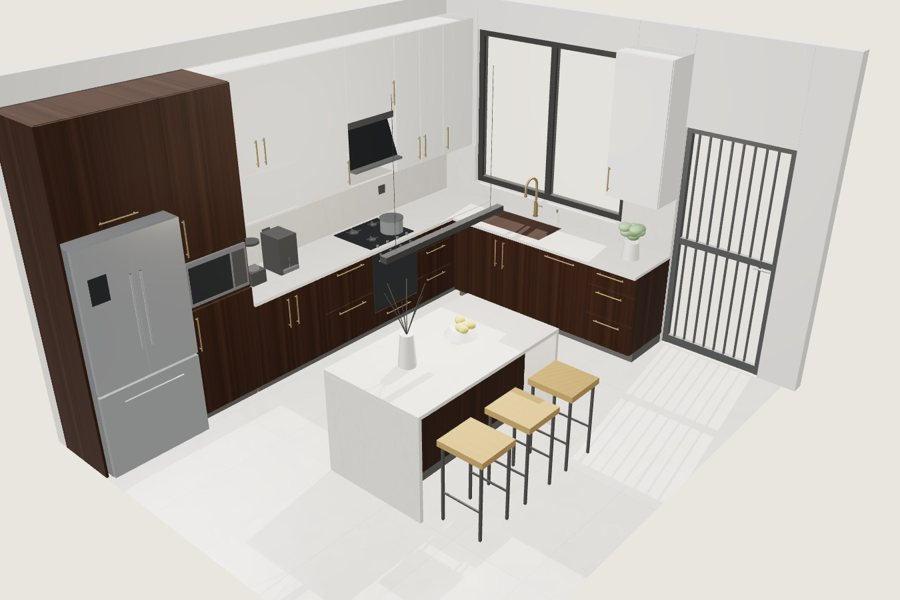
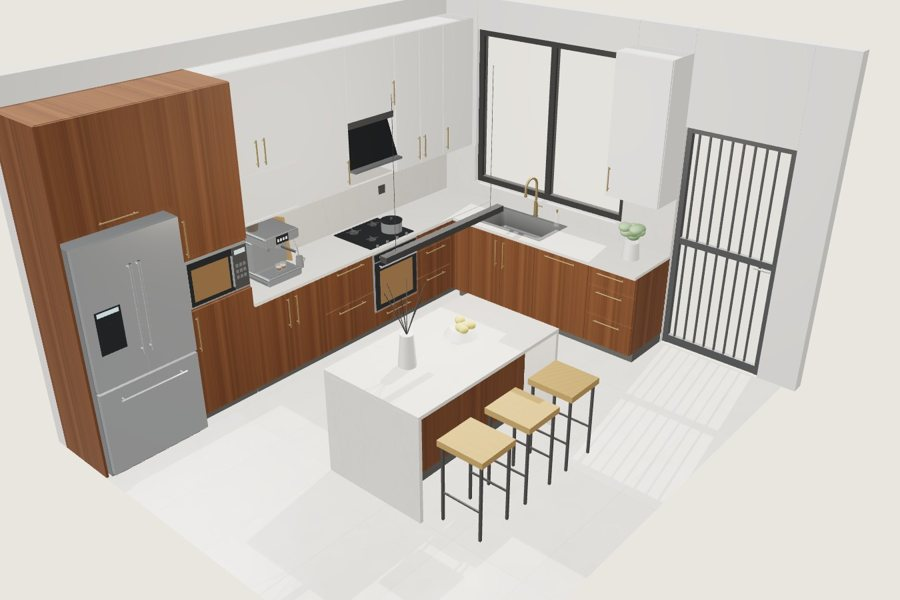
Awes: lighter warm brown, recessed rounded sinks, livelier appliances, style-matched espresso machines
- One lighter warm walnut for every colour scheme (brown & green now uses it too)
- Sinks are open rounded bowls with a rim; farmhouse apron sink has a rounded basin
- Oven, microwave, fridge and hob get displays, glow, grates and style-matched cookware
- Blender removed; Modern gets a silver hopper espresso machine, Farmhouse a teal retro
  two-group machine, Mediterranean a blue majolica-pattern machine

Claude-Session: https://claude.ai/code/session_01Df1aZbcL3CFrpdhw9hWgdy

diff --git a/awes/index.html b/awes/index.html
@@ -171,18 +171,18 @@ const PALETTES={
   'white':{name:'White', lower:'white', upper:'white', tall:'white', island:'white'},
   'brown-white':{name:'Brown & white', lower:'walnut', upper:'white', tall:'walnut', island:'walnut'},
   'green-white':{name:'Green & white', lower:'green', upper:'white', tall:'white', island:'green'},
-  'brown-green':{name:'Brown & green', lower:'green', upper:'oak', tall:'oak', island:'oak'}
+  'brown-green':{name:'Brown & green', lower:'green', upper:'walnut', tall:'walnut', island:'walnut'}
 };
 const FIN={
   green:{modern:'#8b9a7f', med:'#7b8a5f', farm:'#86998a'},
   white:{modern:'#ecebe6', med:'#efe6d4', farm:'#f2eee5'},
-  walnut:{modern:['#4a3122','#2f1d10','#6b4834'], med:['#7a5233','#56371f','#9b6d46'], farm:['#86603f','#5f4127','#a87e56']},
+  walnut:{modern:['#8b5d3c','#664129','#ad7d54'], med:['#8b5d3c','#664129','#ad7d54'], farm:['#8b5d3c','#664129','#ad7d54']},
   oak:{modern:['#c09b6b','#9a7749','#dcbb8b'], med:['#b98f5e','#93703f','#d4ad7c'], farm:['#c29c69','#9b7848','#dcbb89']}
 };
 const FIN_NAME={
   green:{modern:'sage green matte', med:'olive green', farm:'sage green'},
   white:{modern:'warm white', med:'chalk white', farm:'cream white'},
-  walnut:{modern:'dark walnut', med:'chestnut wood', farm:'mid-brown oak'},
+  walnut:{modern:'warm walnut', med:'warm walnut', farm:'warm walnut'},
   oak:{modern:'light oak', med:'light oak', farm:'light oak'}
 };
 const state={style:'modern', palette:'green-white', island:'stools'};
@@ -340,6 +340,23 @@ function skyTex(){
   });
 }
 
+function majolicaTex(){
+  return ctex('majolica',1024,[.22,.22],(g,s)=>{
+    const W1='#f7f8fb', b1='#1d4c9c', b2='#4f7fcf';
+    g.fillStyle=W1; g.fillRect(0,0,s,s);
+    for(const y0 of [0,s-72]){g.fillStyle=b1; g.fillRect(0,y0+10,s,8); g.fillRect(0,y0+54,s,8);
+      for(let x=0;x<s;x+=42){g.fillStyle=b2; g.beginPath(); g.arc(x+21,y0+36,12,0,7); g.fill(); g.fillStyle=W1; g.beginPath(); g.arc(x+21,y0+36,5,0,7); g.fill();}}
+    const cx=s/2, cy=s/2;
+    for(const [r,c] of [[300,b1],[284,W1],[252,b2],[232,W1]]){g.fillStyle=c; g.beginPath(); g.arc(cx,cy,r,0,7); g.fill();}
+    for(let k=0;k<16;k++){const a=k*Math.PI/8; g.fillStyle=k%2?b1:b2; g.beginPath(); g.ellipse(cx+Math.cos(a)*150,cy+Math.sin(a)*150,72,26,a,0,7); g.fill();}
+    for(const [r,c] of [[78,b1],[48,W1],[26,b2]]){g.fillStyle=c; g.beginPath(); g.arc(cx,cy,r,0,7); g.fill();}
+    g.strokeStyle=b1; g.lineWidth=10; g.lineCap='round';
+    for(const [qx,qy] of [[0,0],[1,0],[0,1],[1,1]]){const ox=qx?s-140:140, oy=qy?s-170:170;
+      for(let k=0;k<3;k++){g.beginPath(); g.arc(ox,oy,26+k*26,k*.8,k*.8+3.8); g.stroke();}
+      g.fillStyle=b2; for(let k=0;k<6;k++){g.beginPath(); g.ellipse(ox+(rnd()-.5)*170,oy+(rnd()-.5)*170,18,8,rnd()*3,0,7); g.fill();}}
+  });
+}
+
 /* ---------------------------------------------------------------- materials */
 let MATS=[];
 function std(o){const m=new THREE.MeshStandardMaterial(Object.assign({envMapIntensity:.45},o)); MATS.push(m); return m;}
@@ -387,7 +404,17 @@ function makeMats(){
     rattan:std({map:rattanTex(),roughness:.8}), linen:std({color:'#e8e0d0',roughness:.9}),
     jarGlass:std({color:'#e9eef0',roughness:.05,transparent:true,opacity:.35,depthWrite:false}),
     jarFill:std({color:'#9b6a3d',roughness:.8}), plate:std({color:'#f3f1ec',roughness:.3}),
-    socket:std({color:state.style==='modern'?'#1f1f1f':'#f4f2ee',roughness:.4})
+    socket:std({color:state.style==='modern'?'#1f1f1f':'#f4f2ee',roughness:.4}),
+    fsteel:std({color:'#cdd1d4',metalness:.85,roughness:.3}),
+    sinkSteel:std({color:'#d2d7db',metalness:.7,roughness:.34,side:THREE.DoubleSide,vertexColors:true,envMapIntensity:.3}),
+    sinkCeramic:std({color:'#f3f1ec',roughness:.2,side:THREE.DoubleSide,vertexColors:true}),
+    display:basic({color:'#a6e8ff'}), scrA:basic({color:'#f2c36b'}), scrB:basic({color:'#ffffff'}), scrC:basic({color:'#8fd1ff'}),
+    ovenGlow:std({color:'#140b05',emissive:'#ff8a36',emissiveIntensity:.22,roughness:.1}),
+    teal:std({color:'#86cdc4',roughness:.2,metalness:.05}), cream:std({color:'#efe8d6',roughness:.35}),
+    majolica:std({map:(()=>{const t=majolicaTex(); t.offset.set(.5,.5); return t;})(),roughness:.18}), greyHandle:std({color:'#5d6063',roughness:.5}),
+    beans:std({color:'#4a2a17',roughness:.6}), espresso:std({color:'#2e1a0e',roughness:.15}), crema:std({color:'#bf8752',roughness:.4}),
+    copper:std({color:'#b9724a',metalness:.9,roughness:.32}), enamel:std({color:state.palette.includes('green')?'#86998a':'#e9e3d6',roughness:.25}),
+    board:std({map:woodTex('oak',state.style),roughness:.6}), tintHop:std({color:'#3b3f42',roughness:.05,metalness:.2,transparent:true,opacity:.6})
   };
   M.plinth=M.plinth||null;
 }
@@ -416,6 +443,35 @@ function plane(p,w,h,mat,x,y,z,rx=0,ry=0){
 function tube(p,pts,r,mat,seg=48){
   const m=new THREE.Mesh(new THREE.TubeGeometry(new THREE.CatmullRomCurve3(pts.map(q=>new THREE.Vector3(...q))),seg,r,12,false),mat);
   m.castShadow=true; p.add(m); return m;
+}
+function rrShape(w,h,r,asPath){
+  const s=asPath?new THREE.Path():new THREE.Shape(), x=-w/2, y=-h/2; r=Math.max(.0008,Math.min(r,w/2-1e-4,h/2-1e-4));
+  s.moveTo(x+r,y); s.lineTo(x+w-r,y); s.absarc(x+w-r,y+r,r,-Math.PI/2,0,false); s.lineTo(x+w,y+h-r); s.absarc(x+w-r,y+h-r,r,0,Math.PI/2,false);
+  s.lineTo(x+r,y+h); s.absarc(x+r,y+h-r,r,Math.PI/2,Math.PI,false); s.lineTo(x,y+r); s.absarc(x+r,y+r,r,Math.PI,1.5*Math.PI,false); return s;
+}
+// rounded box centred at x,y,z: rc = corner radius seen from the front, rb = round-over on the front and back edges
+function rbox(p,w,h,d,rc,rb,mat,x,y,z){
+  const g=new THREE.ExtrudeGeometry(rrShape(w-2*rb,h-2*rb,Math.max(.0015,rc-rb)),{depth:Math.max(d-2*rb,.001),bevelEnabled:rb>0,bevelThickness:rb,bevelSize:rb,bevelSegments:3,curveSegments:8});
+  g.translate(0,0,-(d-2*rb)/2);
+  const m=new THREE.Mesh(g,mat); m.position.set(x,y,z); m.castShadow=true; m.receiveShadow=true; p.add(m); return m;
+}
+// flat ring (rounded outer and inner outlines) lying on y, centred at cx,cz
+function ringPlate(p,cx,y,cz,ow,od,orad,iw,id,irad,t,mat){
+  const sh=rrShape(ow,od,orad); sh.holes.push(rrShape(iw,id,irad,true));
+  const g=new THREE.ExtrudeGeometry(sh,{depth:t,bevelEnabled:false,curveSegments:10}); g.rotateX(-Math.PI/2);
+  const m=new THREE.Mesh(g,mat); m.position.set(cx,y,cz); m.castShadow=true; m.receiveShadow=true; p.add(m); return m;
+}
+// open-top bowl: rounded-rectangle walls that curve into a flat floor
+function bowl(p,cx,cz,ytop,w,d,depth,r,mat,rb=.035){
+  const rr=(cw,cd,cr,n=8)=>{const out=[]; for(const [qx,qz,a0] of [[1,1,0],[-1,1,90],[-1,-1,180],[1,-1,270]]){const ox=cx+qx*(cw/2-cr), oz=cz+qz*(cd/2-cr);
+    for(let i=0;i<n;i++){const a=(a0+90*i/(n-1))*Math.PI/180; out.push([ox+cr*Math.cos(a),oz+cr*Math.sin(a)]);}} return out;};
+  const prof=[[0,0],[0,depth-rb]]; for(let i=1;i<=6;i++){const a=Math.PI/2*i/6; prof.push([rb-rb*Math.cos(a),depth-rb+rb*Math.sin(a)]);}
+  const pos=[], idx=[], col=[]; let n=0;
+  prof.forEach(([ins,dn])=>{const ring=rr(w-2*ins,d-2*ins,Math.max(r-ins,.004)); n=ring.length; const sh=1-.5*Math.pow(dn/depth,.7); ring.forEach(([x,z])=>{pos.push(x,ytop-dn,z); col.push(sh,sh,sh);});});
+  for(let k=0;k<prof.length-1;k++)for(let i=0;i<n;i++){const j=(i+1)%n; idx.push(k*n+i,k*n+j,(k+1)*n+j, k*n+i,(k+1)*n+j,(k+1)*n+i);}
+  const c=pos.length/3; pos.push(cx,ytop-depth,cz); col.push(.48,.48,.48); const L=(prof.length-1)*n; for(let i=0;i<n;i++)idx.push(L+i,L+(i+1)%n,c);
+  const g=new THREE.BufferGeometry(); g.setAttribute('position',new THREE.Float32BufferAttribute(pos,3)); g.setAttribute('color',new THREE.Float32BufferAttribute(col,3)); g.setIndex(idx); g.computeVertexNormals();
+  const m=new THREE.Mesh(g,mat); m.receiveShadow=true; m.castShadow=true; p.add(m); return m;
 }
 // a run of units: local x along the run, back against the wall at z=0, fronts facing +z
 function runGroup(parent,x,z,rotY){const g=new THREE.Group(); g.position.set(x,0,z); g.rotation.y=rotY; parent.add(g); return g;}
@@ -447,10 +503,9 @@ function pull(p,cx,cy,z,orient,len){
 /* ---------------------------------------------------------------- base & upper units */
 function baseRun(p,x0,secs,fin,o={}){
   const cd=o.cd??CD, topY=WT-STY.topT, len=secs.reduce((a,s)=>a+s.w,0), fm=finMat(fin);
-  B(p,x0,PL,0,len,topY-PL,cd-.002,fm);
   B(p,x0+.005,0,0,len-.01,PL,cd-.06,M.plinth||fm);
   let x=x0;
-  for(const s of secs){baseSection(p,x,s,cd,topY,fm); x+=s.w;}
+  for(const s of secs){B(p,x,PL,0,s.w,(s.t==='sink'?.64:topY)-PL,cd-.002,fm); baseSection(p,x,s,cd,topY,fm); x+=s.w;}
   return len;
 }
 function baseSection(p,x,s,cd,topY,fm){
@@ -464,11 +519,14 @@ function baseSection(p,x,s,cd,topY,fm){
   }
   if(s.t==='oven'){
     front(p,x,y0,w,.15,z,fm); dpull(x,y0,w,.15);
-    const oy=y0+.16, oh=y1-oy-.01;
-    B(p,x+.008,oy,z-.01,w-.016,oh,.03,s.dark?M.blackGlass:M.steel);
-    B(p,x+.06,oy+.06,z+.021,w-.12,oh-.2,.004,M.blackGlass);
-    C(p,.008,w-.12,x+w/2,oy+oh-.07,z+.05,M.chrome,'x');
-    for(let i=0;i<4;i++)C(p,.014,.02,x+.1+i*(w-.2)/3,oy+oh-.025,z+.03,M.black,'z');
+    const oy=y0+.16, oh=y1-oy-.01, ox=x+.008, ow=w-.016, cx=x+w/2;
+    B(p,ox,oy,z-.01,ow,oh,.03,M.fsteel);
+    B(p,ox+.012,oy+oh-.085,z+.02,ow-.024,.072,.004,M.blackGlass);
+    B(p,cx-.045,oy+oh-.063,z+.024,.09,.03,.001,M.display);
+    for(const dx of [-.2,-.12,.12,.2]){C(p,.017,.026,cx+dx,oy+oh-.049,z+.036,M.chrome,'z'); B(p,cx+dx-.002,oy+oh-.04,z+.049,.004,.013,.002,M.black);}
+    B(p,ox+.012,oy+.012,z+.02,ow-.024,oh-.11,.006,M.blackGlass);
+    B(p,ox+.07,oy+.06,z+.026,ow-.14,oh-.25,.002,M.ovenGlow,false);
+    C(p,.008,ow-.1,cx,oy+oh-.135,z+.065,M.chrome,'x'); for(const dx of [-(ow/2-.07),ow/2-.07])C(p,.006,.04,cx+dx,oy+oh-.135,z+.045,M.chrome,'z');
     return;
   }
   if(s.t==='dw'){front(p,x,y0,w,hgt,z,fm); dpull(x,y0,w,hgt); return;}
@@ -610,12 +668,14 @@ function buildKitchen(){
   const hx=1.66;
   B(gw,hx-.29,WT,.06,.58,.008,.5,M.blackGlass);
   for(const [dx,dz,r] of [[-.13,.17,.045],[.13,.17,.035],[-.13,.42,.035],[.13,.42,.05]]){
-    C(gw,r,.012,hx+dx,WT+.014,dz,M.black); C(gw,r*.55,.008,hx+dx,WT+.022,dz,M.steelDark);
+    C(gw,r,.012,hx+dx,WT+.014,dz,M.black); C(gw,r*.55,.01,hx+dx,WT+.024,dz,state.style==='modern'?M.black:M.hw);
     for(let k=0;k<4;k++){const a=k*Math.PI/2+.4; const b=B(gw,hx+dx-.005,WT+.02,dz-.002,r*1.6,.008,.008,M.black); b.position.set(hx+dx+Math.cos(a)*r*.9,WT+.026,dz+Math.sin(a)*r*.9); b.rotation.y=-a;}
   }
   for(let k=0;k<4;k++)C(gw,.014,.02,hx-.2+k*.13,WT+.012,.56,M.steelDark);
   // a pot on the hob
-  C(gw,.11,.13,hx+.13,WT+.085,.42,M.steel,null,28); C(gw,.115,.012,hx+.13,WT+.155,.42,M.steelDark,null,28);
+  if(state.style==='farm'){rbox(gw,.24,.13,.24,.1,.02,M.enamel,hx+.13,WT+.1,.42); C(gw,.02,.025,hx+.13,WT+.18,.42,M.hw); for(const dx of [-.13,.13])B(gw,hx+.13+dx-.015,WT+.12,.41,.03,.02,.02,M.enamel);}
+  else if(state.style==='med'){C(gw,.11,.12,hx+.13,WT+.09,.42,M.copper,null,32); C(gw,.115,.01,hx+.13,WT+.155,.42,M.copper,null,32); tube(gw,[[hx+.24,WT+.13,.42],[hx+.32,WT+.135,.42],[hx+.38,WT+.14,.42]],.008,M.copper,8);}
+  else {C(gw,.1,.1,hx+.13,WT+.075,.42,M.steel,null,32); C(gw,.105,.01,hx+.13,WT+.13,.42,M.blackGlass,null,32); C(gw,.012,.02,hx+.13,WT+.145,.42,M.black);}
   // hood & uppers
   hood(gw,hx);
   const st=state.style;
@@ -640,7 +700,10 @@ function buildKitchen(){
   const tallTop=upTop, tf=finMat(PAL.tall);
   B(gw,-.6,PL,0,.6,tallTop-PL,CD-.002,tf); B(gw,-.595,0,0,.59,PL,CD-.06,M.plinth||tf);
   front(gw,-.6,PL,.6,.95,CD,tf); pull(gw,-.6+.045,STY.pull==='bar'?PL+.95-.2:PL+.95-.08,CD+FT,'v',.3);
-  B(gw,-.58,1.08,CD-.01,.56,.37,.03,M.steelDark); B(gw,-.56,1.11,CD+.02,.38,.3,.004,M.blackGlass); B(gw,-.16,1.11,CD+.02,.12,.3,.004,M.black);
+  B(gw,-.585,1.07,CD-.01,.57,.39,.03,M.fsteel); B(gw,-.57,1.085,CD+.02,.41,.36,.005,M.blackGlass); B(gw,-.54,1.12,CD+.025,.34,.27,.002,M.ovenGlow,false);
+  B(gw,-.155,1.085,CD+.02,.135,.36,.005,M.black); B(gw,-.14,1.38,CD+.026,.105,.04,.001,M.display,false);
+  for(let r=0;r<3;r++)for(let c=0;c<3;c++)B(gw,-.138+c*.035,1.17+r*.05,CD+.026,.025,.03,.002,M.steelDark);
+  B(gw,-.18,1.12,CD+.026,.012,.27,.012,M.chrome);
   front(gw,-.6,1.48,.6,tallTop-1.48,CD,tf); pull(gw,-.6+.045,1.48+.18,CD+FT,'v',.3);
   // fridge housing
   B(gw,-1.5,0,0,.02,tallTop,CD+FT,tf); B(gw,-1.5,1.92,0,.9,tallTop-1.92,CD-.002,tf);
@@ -678,6 +741,7 @@ function hood(p,hx){
     B(p,hx-.3,1.98,0,.6,.07,.32,M.black);
     const g=B(p,hx-.3,1.62,0,.6,.42,.012,M.blackGlass); g.rotation.x=-.35; g.position.z=.28; g.position.y=1.82;
     B(p,hx-.3,1.6,.15,.6,.02,.27,M.steelDark);
+    for(const dx of [-.15,.15])C(p,.022,.003,hx+dx,1.598,.3,M.bulb).castShadow=false;
     return;
   }
   const mat=k==='plaster'?std({map:wallTex(),color:'#fbf6ee',roughness:.95}):finMat('white');
@@ -686,30 +750,36 @@ function hood(p,hx){
   B(p,hx-.2,2.29,0,.4,(STY.upperTop>2.5?H:H)-2.29-(STY.ceiling==='beams'?.0:0),.22,mat);
   B(p,hx-.48,1.62,0,.96,.1,.31,k==='plaster'?M.darkWood:M.shelfWood);
   B(p,hx-.25,1.6,.05,.5,.02,.24,M.steelDark);
+  for(const dx of [-.15,.15])C(p,.022,.003,hx+dx,1.598,.18,M.bulb).castShadow=false;
 }
 function fridge(p,x0){
-  const w=.84, h=1.86, d=.68;
-  B(p,x0,.02,.0,w,h,d-.04,M.steelDark);
-  B(p,x0,.75,d-.04,w/2-.003,h-.73,.04,M.steel); B(p,x0+w/2+.003,.75,d-.04,w/2-.003,h-.73,.04,M.steel);
-  B(p,x0,.03,d-.04,w,.7,.04,M.steel);
-  C(p,.009,.6,x0+w/2-.04,1.3,d+.03,M.chrome); C(p,.009,.6,x0+w/2+.04,1.3,d+.03,M.chrome);
-  C(p,.009,.5,x0+w/2,.64,d+.03,M.chrome,'x');
-  B(p,x0+.08,1.45,d,.14,.2,.004,M.blackGlass);
+  const w=.84, h=1.86, d=.68, fz=d-.05;
+  B(p,x0,.02,0,w,h,fz,M.steelDark);
+  B(p,x0+.004,.77,fz,w/2-.006,h-.75,.045,M.fsteel); B(p,x0+w/2+.002,.77,fz,w/2-.006,h-.75,.045,M.fsteel);
+  B(p,x0+.004,.05,fz,w-.008,.7,.045,M.fsteel);
+  for(const hx of [x0+w/2-.035,x0+w/2+.035]){C(p,.011,.72,hx,1.32,d+.04,M.chrome); for(const hy of [.99,1.65])C(p,.007,.045,hx,hy,d+.018,M.chrome,'z');}
+  C(p,.011,.56,x0+w/2,.66,d+.04,M.chrome,'x'); for(const dx of [-.25,.25])C(p,.007,.045,x0+w/2+dx,.66,d+.018,M.chrome,'z');
+  B(p,x0+.08,1.05,d-.004,.2,.34,.004,M.blackGlass);          // water and ice bay
+  B(p,x0+.1,1.07,d-.03,.16,.24,.026,M.black);
+  C(p,.012,.04,x0+.18,1.27,d-.015,M.chrome);
+  B(p,x0+.095,1.345,d,.17,.035,.001,M.display);
+  B(p,x0+.06,.02,fz-.01,w-.12,.025,.02,M.black);
 }
 function sink(p,sc,ox0,ox1,oz0,oz1,topY){
-  const st=STY.sink;
+  const st=STY.sink, cz=(oz0+oz1)/2;
   if(st==='apron'){
-    const w=ox1-ox0, sy=WT-.24;
-    B(p,ox0,sy,oz0,w,.02,oz1-oz0,M.ceramic);
-    B(p,ox0,sy,oz0,.03,WT-sy,oz1-oz0,M.ceramic); B(p,ox1-.03,sy,oz0,.03,WT-sy,oz1-oz0,M.ceramic);
-    B(p,ox0,sy,oz0,w,WT-sy,.03,M.ceramic); B(p,ox0,sy,oz1-.04,w,WT-sy,.04,M.ceramic);
-    C(p,.025,.004,sc,sy+.022,(oz0+oz1)/2,M.steelDark);
+    const w=ox1-ox0, sy=WT-.25, bd=oz1-oz0;
+    B(p,ox0,sy,oz1-.045,w,WT-sy,.045,M.ceramic);                       // apron front
+    B(p,ox0,sy,oz0,.03,WT-sy,bd-.04,M.ceramic); B(p,ox1-.03,sy,oz0,.03,WT-sy,bd-.04,M.ceramic); B(p,ox0,sy,oz0,w,WT-sy,.03,M.ceramic);
+    const iw=w-.07, id=bd-.085, icz=oz0+.035+id/2;
+    ringPlate(p,sc,WT-.004,icz,w,bd-.01,.01,iw,id,.045,.004,M.ceramic);
+    bowl(p,sc,icz,WT-.002,iw,id,.21,.045,M.sinkCeramic);
+    C(p,.03,.004,sc,WT-.209,icz,M.steelDark,null,24); C(p,.02,.005,sc,WT-.208,icz,M.black,null,24);
   } else {
-    const sy=topY-.19;
-    B(p,ox0,sy,oz0,ox1-ox0,.004,oz1-oz0,M.steel);
-    B(p,ox0,sy,oz0,.003,topY-sy,oz1-oz0,M.steel); B(p,ox1-.003,sy,oz0,.003,topY-sy,oz1-oz0,M.steel);
-    B(p,ox0,sy,oz0,ox1-ox0,topY-sy,.003,M.steel); B(p,ox0,sy,oz1-.003,ox1-ox0,topY-sy,.003,M.steel);
-    C(p,.025,.004,sc,sy+.006,(oz0+oz1)/2,M.steelDark);
+    const iw=ox1-ox0-.04, id=oz1-oz0-.04;
+    bowl(p,sc,cz,WT,iw,id,.2,.045,M.sinkSteel);
+    ringPlate(p,sc,WT,cz,ox1-ox0+.04,oz1-oz0+.04,.012,iw,id,.045,.004,M.steel);
+    C(p,.032,.004,sc,WT-.197,cz,M.chrome,null,24); C(p,.022,.005,sc,WT-.196,cz,M.steelDark,null,24);
   }
   // tap at the back
   const tm=STY.pull==='bar'?M.hw:M.hw, z=.035, y=WT;
@@ -727,13 +797,58 @@ function sink(p,sc,ox0,ox1,oz0,oz1,topY){
   }
 }
 function coffeeStation(p,y){
-  // coffee maker
-  B(p,.48,y,.12,.2,.34,.24,M.black); B(p,.5,y+.02,.36,.16,.03,.03,M.steelDark);
-  C(p,.06,.12,.58,y+.08,.3,M.jarGlass); C(p,.055,.05,.58,y+.03,.3,std({color:'#3a2416',roughness:.4}));
-  // blender
-  B(p,.18,y,.2,.15,.12,.15,M.black); C(p,.055,.24,.255,y+.24,.275,M.jarGlass,null,20,.07); C(p,.075,.02,.255,y+.37,.275,M.black);
-  // canisters
-  for(let i=0;i<3;i++)C(p,.045,.16-i*.025,.08+i*.0,y+.08-i*.012,.12+i*.11,state.style==='modern'?M.black:M.potWhite);
+  const cx=.44, zb=.09;
+  if(state.style==='modern')espressoModern(p,cx,y,zb); else if(state.style==='farm')espressoRetro(p,cx,y,zb); else espressoMajolica(p,cx,y,zb);
+  // coffee beans in a glass jar with a wooden lid
+  C(p,.05,.17,.1,y+.085,.17,M.jarGlass,null,28); C(p,.046,.13,.1,y+.066,.17,M.beans,null,24); C(p,.053,.022,.1,y+.181,.17,M.board,null,28);
+  if(state.style!=='med'){const b=B(p,.69,y,.02,.28,.4,.02,M.board); b.position.set(.71,y+.2,.06); b.rotation.x=-.18; b.rotation.y=Math.PI/2;}
+}
+function cups(p,xs,y,z,mat){for(const x of xs){C(p,.026,.055,x,y+.028,z,mat,null,20,.029); C(p,.023,.022,x,y+.017,z,M.espresso,null,20); C(p,.024,.004,x,y+.03,z,M.crema,null,20);}}
+function espressoModern(p,cx,y,zb){
+  const S=M.fsteel, w=.37, d=.38, zc=zb+d/2;
+  rbox(p,w,.07,d,.02,.01,S,cx,y+.035,zc);
+  B(p,cx-w/2+.04,y+.07,zb+d-.16,w-.08,.004,.14,M.steelDark);
+  rbox(p,w,.28,.19,.02,.01,S,cx,y+.07+.14,zb+.095);
+  rbox(p,w,.09,d,.02,.012,S,cx,y+.35+.045,zc);
+  B(p,cx-.065,y+.36,zb+d-.003,.13,.07,.004,M.blackGlass);
+  [M.scrA,M.scrB,M.scrC,M.scrB].forEach((m,i)=>B(p,cx-.055+i*.029,y+.38,zb+d+.002,.02,.026,.001,m,false));
+  C(p,.05,.14,cx-.11,y+.44+.07,zb+.13,M.tintHop,null,32,.075); C(p,.044,.09,cx-.11,y+.44+.045,zb+.13,M.beans,null,24,.06); C(p,.078,.02,cx-.11,y+.44+.15,zb+.13,M.black,null,32);
+  C(p,.04,.03,cx+.03,y+.335,zb+d-.09,M.chrome); C(p,.035,.035,cx+.03,y+.3,zb+d-.09,M.chrome);
+  tube(p,[[cx+.03,y+.3,zb+d-.06],[cx+.04,y+.295,zb+d+.03],[cx+.05,y+.29,zb+d+.11]],.011,M.black,16);
+  C(p,.013,.04,cx-.11,y+.32,zb+d-.06,M.steelDark);
+  tube(p,[[cx+.16,y+.34,zb+d-.06],[cx+.17,y+.26,zb+d-.03],[cx+.175,y+.17,zb+d-.02]],.006,M.chrome,16);
+  cups(p,[cx+.005,cx+.055],y+.074,zb+d-.09,M.jarGlass);
+  C(p,.036,.1,cx+.27,y+.05,zb+.25,M.fsteel,null,28,.031); tube(p,[[cx+.3,y+.08,zb+.25],[cx+.33,y+.06,zb+.25],[cx+.3,y+.03,zb+.25]],.006,M.fsteel,12);
+}
+function espressoRetro(p,cx,y,zb){
+  const Tq=M.teal, w=.5, d=.42;
+  rbox(p,w,.06,d,.02,.01,Tq,cx,y+.03,zb+d/2);
+  rbox(p,w,.36,.3,.035,.015,Tq,cx,y+.06+.18,zb+.15);
+  B(p,cx-w/2+.04,y+.08,zb+.3,w-.08,.16,.004,M.cream);
+  B(p,cx-w/2+.03,y+.06,zb+.3,w-.06,.012,d-.31,M.chrome);
+  C(p,.046,.012,cx,y+.34,zb+.306,M.chrome,'z',32); C(p,.037,.004,cx,y+.34,zb+.313,M.ceramic,'z',32); B(p,cx-.002,y+.34,zb+.316,.004,.03,.001,M.black,false);
+  for(const dx of [-.19,.19]){C(p,.024,.04,cx+dx,y+.34,zb+.32,M.black,'z',24); S(p,.02,cx+dx,y+.34,zb+.345,M.black);}
+  for(const dx of [-.12,-.09,.09,.12])B(p,cx+dx-.011,y+.325,zb+.3,.022,.03,.008,M.ceramic);
+  for(const dx of [-.11,.11]){C(p,.042,.04,cx+dx,y+.255,zb+.33,M.chrome); C(p,.034,.035,cx+dx,y+.22,zb+.33,M.chrome);
+    tube(p,[[cx+dx,y+.22,zb+.36],[cx+dx+.05,y+.215,zb+.43],[cx+dx+.1,y+.21,zb+.48]],.012,M.black,16);}
+  cups(p,[cx-.11,cx+.11],y+.072,zb+.34,M.ceramic);
+  tube(p,[[cx-.235,y+.31,zb+.31],[cx-.245,y+.22,zb+.35],[cx-.25,y+.13,zb+.36]],.006,M.chrome,16);
+  for(const [a,b] of [[[cx-.22,y+.46,zb+.04],[cx+.22,y+.46,zb+.04]],[[cx-.22,y+.46,zb+.27],[cx+.22,y+.46,zb+.27]],[[cx-.22,y+.46,zb+.04],[cx-.22,y+.46,zb+.27]],[[cx+.22,y+.46,zb+.04],[cx+.22,y+.46,zb+.27]]])tube(p,[a,[(a[0]+b[0])/2,a[1],(a[2]+b[2])/2],b],.006,M.chrome,8);
+  for(const [dx,dz] of [[-.22,.04],[.22,.04],[-.22,.27],[.22,.27]])C(p,.005,.04,cx+dx,y+.44,zb+dz,M.chrome);
+  for(let i=0;i<5;i++)C(p,.032,.045,cx-.16+i*.08,y+.442,zb+.15+(i%2)*.06,M.ceramic,null,20,.036);
+}
+function espressoMajolica(p,cx,y,zb){
+  const Mj=M.majolica, w=.23, d=.35;
+  rbox(p,w+.02,.025,d,.012,.006,M.chrome,cx,y+.0125,zb+d/2);
+  B(p,cx-w/2+.02,y+.025,zb+d-.12,w-.04,.006,.1,M.steelDark);
+  rbox(p,w-.02,.22,.07,.012,.004,M.jarGlass,cx,y+.135,zb+.04);
+  rbox(p,w,.22,.14,.02,.008,Mj,cx,y+.135,zb+.145);
+  rbox(p,w,.12,d,.055,.02,Mj,cx,y+.305,zb+d/2);
+  B(p,cx-w/2,y+.243,zb+.08,w,.004,d-.08,M.chrome,false);
+  C(p,.034,.03,cx,y+.23,zb+d-.06,M.chrome); C(p,.03,.025,cx,y+.205,zb+d-.06,M.chrome);
+  tube(p,[[cx,y+.205,zb+d-.03],[cx,y+.2,zb+d+.06],[cx,y+.195,zb+d+.14]],.012,M.greyHandle,16);
+  cups(p,[cx],y+.031,zb+d-.06,M.ceramic);
+  tube(p,[[cx+.1,y+.27,zb+d-.1],[cx+.12,y+.2,zb+d-.08],[cx+.12,y+.12,zb+d-.07]],.005,M.chrome,12);
 }
 function island(K){
   const stools=state.island==='stools', fin=PAL.island, fm=finMat(fin);
